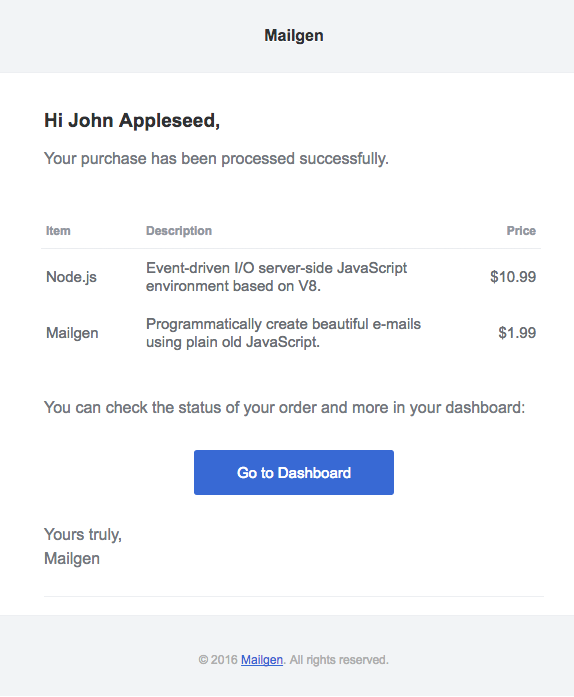
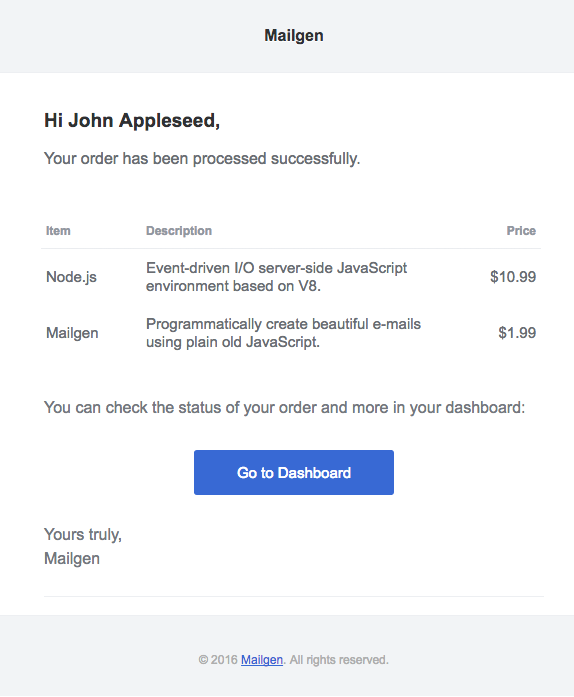
Improve grammar in receipt example

Changed region(s): [[0.1481, 0.2109, 0.6812, 0.241]]

diff --git a/examples/receipt.js b/examples/receipt.js
@@ -16,7 +16,7 @@ var mailGenerator = new Mailgen({
 var email = {
     body: {
         name: 'John Appleseed',
-        intro: 'Your purchase has been processed successfully.',
+        intro: 'Your order has been processed successfully.',
         table: {
             data: [
                 {

diff --git a/README.md b/README.md
@@ -108,7 +108,7 @@ var emailBody = mailGenerator.generate(email);
 var email = {
     body: {
         name: 'John Appleseed',
-        intro: 'Your purchase has been processed successfully.',
+        intro: 'Your order has been processed successfully.',
         table: {
             data: [
                 {
